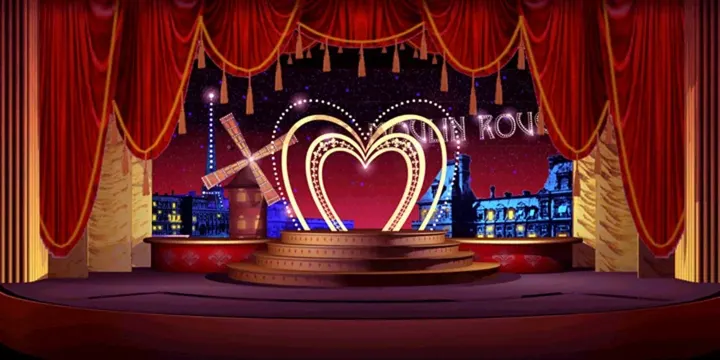
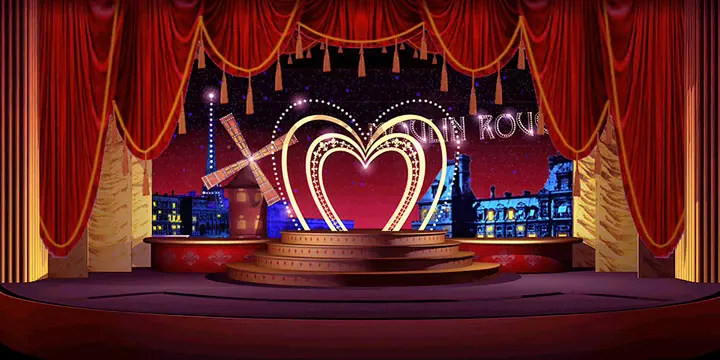
Use sharper, larger Moulin Rouge render
Claude-Session: https://claude.ai/code/session_01NdYvV22uidy1S5uaqzDcMh

diff --git a/works.js b/works.js
@@ -234,7 +234,7 @@ window.WORKS = [
     {src: "images/exclaim-abc-isocam-1-2.webp", thumb: "thumbs/exclaim-abc-isocam-1-2.webp", w: 2500, h: 1199},
   ]},
   {title: "Moulin Rouge", type: "Theme event", cat: "Broadcast & entertainment", images: [
-    {src: "images/moulin-set.webp", thumb: "thumbs/moulin-set.webp", w: 1000, h: 500},
+    {src: "images/moulin-set.webp", thumb: "thumbs/moulin-set.webp", w: 1598, h: 799},
   ]},
   {title: "Cuba", type: "Theme event", cat: "Broadcast & entertainment", images: [
     {src: "images/cuba.webp", thumb: "thumbs/cuba.webp", w: 1000, h: 500},
